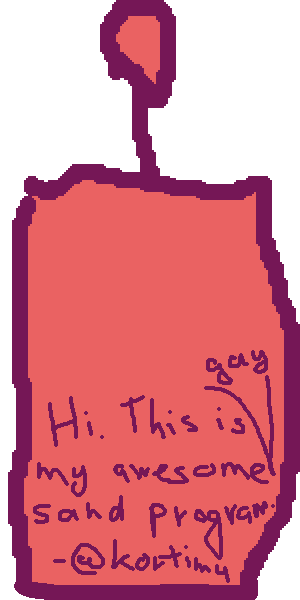
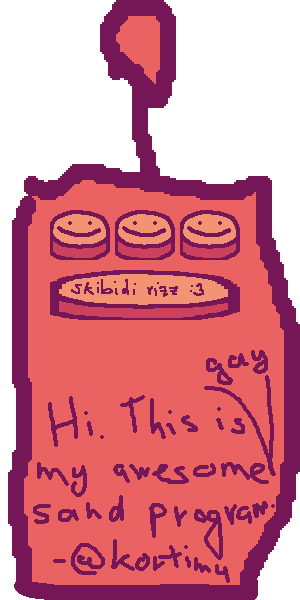
holy shit you can see the brush buttons being pressed

Changed region(s): [[0.15, 0.33, 0.81, 0.54]]

diff --git a/src/main.c b/src/main.c
@@ -276,6 +276,171 @@ LRESULT CALLBACK WndProc(HWND hwnd, UINT msg, WPARAM wParam, LPARAM lParam)
     return 0;
 }
 
+// TODO: refactor for multiple pressed buttons
+// (toggles and whatnot idk)
+// (also just general press behaviour for when i feel like it)
+int DrawRemote(HWND hwnd, int brushX, int brushY)
+{
+    IWICImagingFactory *pFactory = NULL;
+
+    IWICBitmapDecoder *pDecoderBG = NULL;
+    IWICBitmapFrameDecode *pFrameBG = NULL;
+    IWICFormatConverter *pConverterBG = NULL;
+
+    IWICBitmapDecoder *pDecoderBTN = NULL;
+    IWICBitmapFrameDecode *pFrameBTN = NULL;
+    IWICFormatConverter *pConverterBTN = NULL;
+
+    CoInitialize(NULL);
+
+    HRESULT hr = CoCreateInstance(&CLSID_WICImagingFactory, NULL, CLSCTX_INPROC_SERVER,
+                                &IID_IWICImagingFactory, (LPVOID*)&pFactory);
+    if (FAILED(hr)) return -1;
+
+    /******* load background *******/
+    hr = pFactory->lpVtbl->CreateDecoderFromFilename(
+        pFactory,
+        L"C:\\Users\\Meira\\Desktop\\Projects\\physics_toy\\assets\\remote.png",
+        NULL,
+        GENERIC_READ,
+        WICDecodeMetadataCacheOnLoad,
+        &pDecoderBG);
+    if (FAILED(hr)) return -1;
+
+    hr = pDecoderBG->lpVtbl->GetFrame(pDecoderBG, 0, &pFrameBG);
+    if (FAILED(hr)) return -1;
+
+    // convert to how UpdateLayeredWindow likes it, premultiplied and what not
+    hr = pFactory->lpVtbl->CreateFormatConverter(pFactory, &pConverterBG);
+    if (FAILED(hr)) return -1;
+
+    hr = pConverterBG->lpVtbl->Initialize(
+        pConverterBG,
+        (IWICBitmapSource*)pFrameBG,
+        &GUID_WICPixelFormat32bppPBGRA,
+        WICBitmapDitherTypeNone,
+        NULL,
+        0.0,
+        WICBitmapPaletteTypeCustom);
+    if (FAILED(hr)) return -1;
+
+    UINT widthBG, heightBG;
+    pConverterBG->lpVtbl->GetSize(pConverterBG, &widthBG, &heightBG);
+
+    UINT strideBG = widthBG * 4;
+    UINT bufSizeBG = strideBG * heightBG;
+    BYTE* bufferBG = (BYTE*)malloc(bufSizeBG);
+
+    hr = pConverterBG->lpVtbl->CopyPixels(pConverterBG, NULL, strideBG, bufSizeBG, bufferBG);
+    if (FAILED(hr)) return -1;
+
+    /******* load button selector thingy *******/
+    hr = pFactory->lpVtbl->CreateDecoderFromFilename(
+        pFactory,
+        L"C:\\Users\\Meira\\Desktop\\Projects\\physics_toy\\assets\\bumton_pressed.png",
+        NULL,
+        GENERIC_READ,
+        WICDecodeMetadataCacheOnLoad,
+        &pDecoderBTN);
+    if (FAILED(hr)) return -1;
+
+    hr = pDecoderBTN->lpVtbl->GetFrame(pDecoderBTN, 0, &pFrameBTN);
+    if (FAILED(hr)) return -1;
+
+    // convert to how UpdateLayeredWindow likes it, premultiplied and what not
+    hr = pFactory->lpVtbl->CreateFormatConverter(pFactory, &pConverterBTN);
+    if (FAILED(hr)) return -1;
+
+    hr = pConverterBTN->lpVtbl->Initialize(
+        pConverterBTN,
+        (IWICBitmapSource*)pFrameBTN,
+        &GUID_WICPixelFormat32bppPBGRA,
+        WICBitmapDitherTypeNone,
+        NULL,
+        0.0,
+        WICBitmapPaletteTypeCustom);
+    if (FAILED(hr)) return -1;
+
+    UINT widthBTN, heightBTN;
+    pConverterBTN->lpVtbl->GetSize(pConverterBTN, &widthBTN, &heightBTN);
+
+    UINT strideBTN = widthBTN * 4;
+    UINT bufSizeBTN = strideBTN * heightBTN;
+    BYTE* bufferBTN = (BYTE*)malloc(bufSizeBTN);
+
+    hr = pConverterBTN->lpVtbl->CopyPixels(pConverterBTN, NULL, strideBTN, bufSizeBTN, bufferBTN);
+    if (FAILED(hr)) return -1;
+
+    /******* do some blit goodness (bg x button) *******/
+    UINT32* dst = (UINT32*)bufferBG;
+    UINT32* src = (UINT32*)bufferBTN;
+
+    for (UINT y = 0; y < heightBTN; ++y) {
+        for (UINT x = 0; x < widthBTN; ++x) {
+            int dx = brushX + x;
+            int dy = brushY + y;
+
+            if (dx < 0 || dy < 0 || dx >= (int)widthBG || dy >= (int)heightBG) {
+                continue;
+            }
+
+            dst[dy * widthBG + dx] = src[y * widthBTN + x];
+        }
+    }
+
+    /******* other shit and cleanup *******/
+    BITMAPINFO bmi = {0};
+    bmi.bmiHeader.biSize        = sizeof(BITMAPINFOHEADER);
+    bmi.bmiHeader.biWidth       = widthBG;
+    bmi.bmiHeader.biHeight      = -((LONG)heightBG); // top-down
+    bmi.bmiHeader.biPlanes      = 1;
+    bmi.bmiHeader.biBitCount    = 32;
+    bmi.bmiHeader.biCompression = BI_RGB;
+
+    void* pvBits = NULL;
+    HDC hdcScreen = GetDC(NULL);
+    HBITMAP hBmp = CreateDIBSection(hdcScreen, &bmi, DIB_RGB_COLORS, &pvBits, NULL, 0);
+
+    memcpy(pvBits, bufferBG, bufSizeBG);
+
+    HDC hdcMem = CreateCompatibleDC(hdcScreen);
+    HBITMAP old = (HBITMAP)SelectObject(hdcMem, hBmp);
+
+    RECT rc;
+    GetWindowRect(hwnd, &rc);
+
+    SIZE sizeWindow = { widthBG, heightBG };
+    POINT ptSrc     = { 0, 0 };
+    POINT ptDest    = { rc.left, rc.top };
+
+    BLENDFUNCTION blend = {0};
+    blend.BlendOp             = AC_SRC_OVER;
+    blend.BlendFlags          = 0;
+    blend.SourceConstantAlpha = 255;
+    blend.AlphaFormat         = AC_SRC_ALPHA;
+
+    UpdateLayeredWindow(hwnd, hdcScreen, &ptDest, &sizeWindow,
+                        hdcMem, &ptSrc, 0, &blend, ULW_ALPHA);
+
+    SelectObject(hdcMem, old);
+    DeleteDC(hdcMem);
+    ReleaseDC(NULL, hdcScreen);
+    free(bufferBG);
+    free(bufferBTN);
+
+    pConverterBG->lpVtbl->Release(pConverterBG);
+    pFrameBG->lpVtbl->Release(pFrameBG);
+    pDecoderBG->lpVtbl->Release(pDecoderBG);
+
+    pConverterBTN->lpVtbl->Release(pConverterBTN);
+    pFrameBTN->lpVtbl->Release(pFrameBTN);
+    pDecoderBTN->lpVtbl->Release(pDecoderBTN);
+    
+    pFactory->lpVtbl->Release(pFactory);
+    CoUninitialize();
+    return 0;
+}
+
 HBITMAP g_hbmBackground = NULL;
 HBITMAP g_hbmBackgroundMask = NULL;
 
@@ -284,107 +449,9 @@ LRESULT CALLBACK RemProc(HWND hwnd, UINT msg, WPARAM wParam, LPARAM lParam)
     switch(msg)
     {
         case WM_CREATE: {
-            IWICImagingFactory *pFactory = NULL;
-            IWICBitmapDecoder *pDecoder = NULL;
-            IWICBitmapFrameDecode *pFrame = NULL;
-            IWICFormatConverter *pConverter = NULL;
-
-            // Initialize COM for WIC
-            CoInitialize(NULL);
-
-            // Create WIC factory
-            HRESULT hr = CoCreateInstance(&CLSID_WICImagingFactory, NULL, CLSCTX_INPROC_SERVER,
-                                        &IID_IWICImagingFactory, (LPVOID*)&pFactory);
-            if (FAILED(hr)) return -1;
-
-            // Create decoder for PNG file
-            hr = pFactory->lpVtbl->CreateDecoderFromFilename(
-                pFactory,
-                L"C:\\Users\\Meira\\Desktop\\Projects\\physics_toy\\assets\\remote.png",   // PNG path
-                NULL,
-                GENERIC_READ,
-                WICDecodeMetadataCacheOnLoad,
-                &pDecoder);
-            if (FAILED(hr)) return -1;
-
-            // Get first frame
-            hr = pDecoder->lpVtbl->GetFrame(pDecoder, 0, &pFrame);
-            if (FAILED(hr)) return -1;
-
-            // Convert to 32bppPBGRA (premultiplied alpha, what UpdateLayeredWindow expects)
-            hr = pFactory->lpVtbl->CreateFormatConverter(pFactory, &pConverter);
-            if (FAILED(hr)) return -1;
-
-            hr = pConverter->lpVtbl->Initialize(
-                pConverter,
-                (IWICBitmapSource*)pFrame,
-                &GUID_WICPixelFormat32bppPBGRA,
-                WICBitmapDitherTypeNone,
-                NULL,
-                0.0,
-                WICBitmapPaletteTypeCustom);
-            if (FAILED(hr)) return -1;
-
-            // Get size
-            UINT width, height;
-            pConverter->lpVtbl->GetSize(pConverter, &width, &height);
-
-            // Allocate buffer
-            UINT stride = width * 4;
-            UINT bufSize = stride * height;
-            BYTE* buffer = (BYTE*)malloc(bufSize);
-
-            // Copy pixels into buffer
-            hr = pConverter->lpVtbl->CopyPixels(pConverter, NULL, stride, bufSize, buffer);
-            if (FAILED(hr)) return -1;
-
-            // Create DIB section
-            BITMAPINFO bmi = {0};
-            bmi.bmiHeader.biSize        = sizeof(BITMAPINFOHEADER);
-            bmi.bmiHeader.biWidth       = width;
-            bmi.bmiHeader.biHeight      = -((LONG)height); // top-down
-            bmi.bmiHeader.biPlanes      = 1;
-            bmi.bmiHeader.biBitCount    = 32;
-            bmi.bmiHeader.biCompression = BI_RGB;
-
-            void* pvBits = NULL;
-            HDC hdcScreen = GetDC(NULL);
-            HBITMAP hBmp = CreateDIBSection(hdcScreen, &bmi, DIB_RGB_COLORS, &pvBits, NULL, 0);
-
-            // Copy buffer into DIB
-            memcpy(pvBits, buffer, bufSize);
-
-            // Push into layered window
-            HDC hdcMem = CreateCompatibleDC(hdcScreen);
-            HBITMAP old = (HBITMAP)SelectObject(hdcMem, hBmp);
-
-            SIZE sizeWindow = { width, height };
-            POINT ptSrc     = { 0, 0 };
-            POINT ptDest    = { 450, 20 };
-
-            BLENDFUNCTION blend = {0};
-            blend.BlendOp             = AC_SRC_OVER;
-            blend.BlendFlags          = 0;
-            blend.SourceConstantAlpha = 255;
-            blend.AlphaFormat         = AC_SRC_ALPHA;
-
-            UpdateLayeredWindow(hwnd, hdcScreen, &ptDest, &sizeWindow,
-                                hdcMem, &ptSrc, 0, &blend, ULW_ALPHA);
-
-            // Cleanup
-            SelectObject(hdcMem, old);
-            DeleteDC(hdcMem);
-            ReleaseDC(NULL, hdcScreen);
-            free(buffer);
-
-            pConverter->lpVtbl->Release(pConverter);
-            pFrame->lpVtbl->Release(pFrame);
-            pDecoder->lpVtbl->Release(pDecoder);
-            pFactory->lpVtbl->Release(pFactory);
-            CoUninitialize();
+            DrawRemote(hwnd, 50, 210);
 
 
-            // TODO: will need to remake the button pushdown be sorta a selector instead of this cursed shit but whatever for now. it works. just doesn't look like it
             CreateWindowEx(
                 WS_EX_CLIENTEDGE,
                 "BUTTON",
@@ -424,6 +491,7 @@ LRESULT CALLBACK RemProc(HWND hwnd, UINT msg, WPARAM wParam, LPARAM lParam)
                 ((LPCREATESTRUCT)lParam)->hInstance,
                 NULL);
             
+            // by default checks off the first button (default brush)
             CheckRadioButton(hwnd, 1, 3, 1);
             return 0;
         }
@@ -435,12 +503,15 @@ LRESULT CALLBACK RemProc(HWND hwnd, UINT msg, WPARAM wParam, LPARAM lParam)
             switch (LOWORD(wParam)) {
                 case 1:
                     current_brush = SAND;
+                    DrawRemote(hwnd, 50, 210);
                     break;
                 case 2:
                     current_brush = GAY_SAND;
+                    DrawRemote(hwnd, 115, 210);
                     break;
                 case 3:
                     current_brush = ROCK;
+                    DrawRemote(hwnd, 180, 210);
                     break;
                 case 69:
                     printf("daba dee daba do\n");
